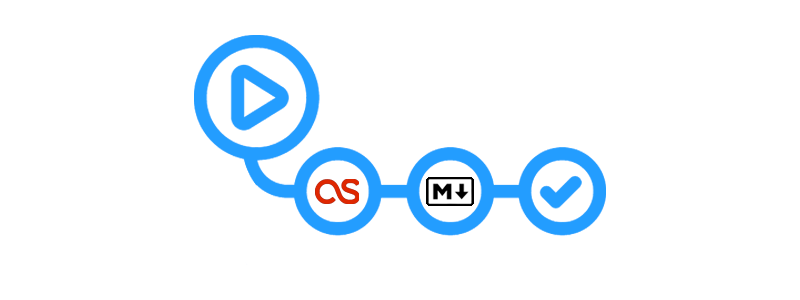
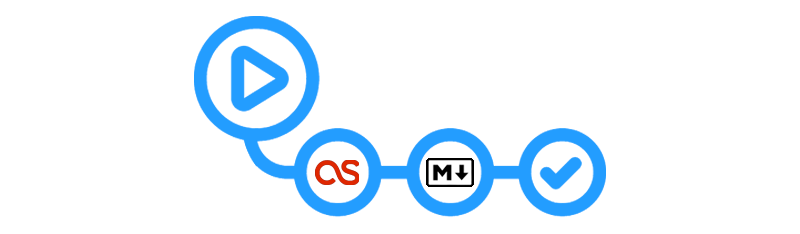
refactor(README): resize readme hero image

Changed region(s): [[0.2188, 0.0598, 0.7812, 0.9274]]

diff --git a/.github/README.md b/.github/README.md
@@ -1,4 +1,4 @@
-<p align="center"><img src="../public/images/readme-hero.png" alt="lastfm-readme branding hero"></p>
+<p align="center"><img src="../public/images/readme-hero.png" alt="lastfm-readme branding hero" width="700px"></p>
 <div align="center">
 
 # GitHub README Last.fm Metrics
